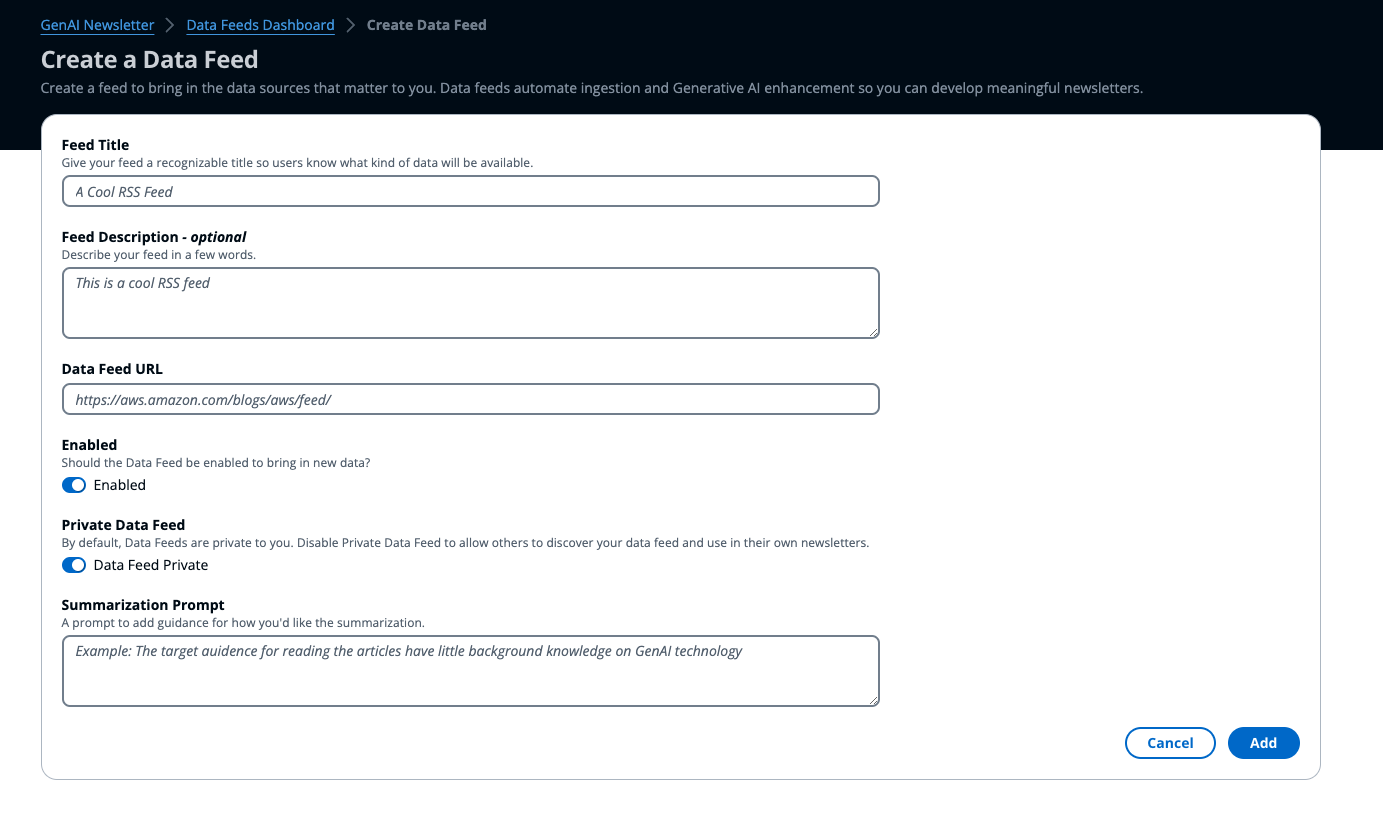
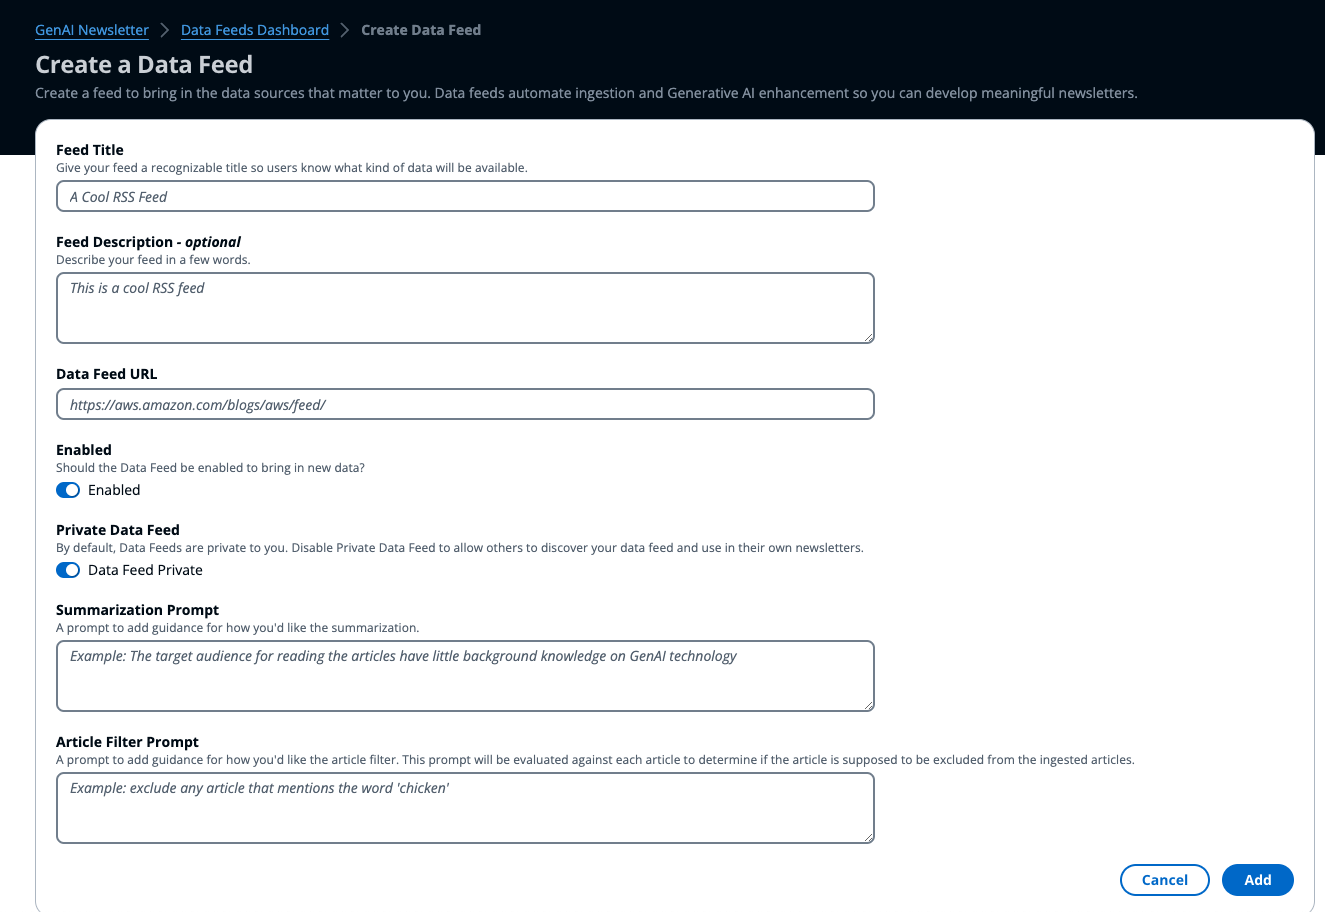
docs(datafeed): update documentation to include changes to DataFeeds related to Article Filters
Documentation has been updated to instruct on how to use the Article Filter Prompt to filter out
articles using natural language.

re #98

diff --git a/pages/user-guide.md b/pages/user-guide.md
@@ -17,7 +17,7 @@ To create your data feed:
 
 1. Complete the details of the data feed form including a title, optional description, URL of the ATOM or RSS feed.
 
-1. The **Summarization Prompt** instructs the Data Feed ingestion process on how to summarize the articles it consumes. Because this makes Data Feed summaries unique, you can create multiple Data Feeds for the same source and prompt each one to summarize differently. 
+1. The **Summarization Prompt** instructs the Data Feed ingestion process on how to summarize the articles it consumes. Because this makes Data Feed summaries unique, you can create multiple Data Feeds for the same source and prompt each one to summarize differently. The **Article Filter Prompt** offers users the ability to provide prompted instructions on how to filter out articles that shouldn't be ingested. When an article filter prompt is provided, both the article content and the filter are sent to Bedrock to determine if the article content is supposed to be filtered out or included. 
 ![Data Feed Create](./images/DataFeed-Create-Image.png)
 
 1. Click **Add** to create the Data Feed. 
